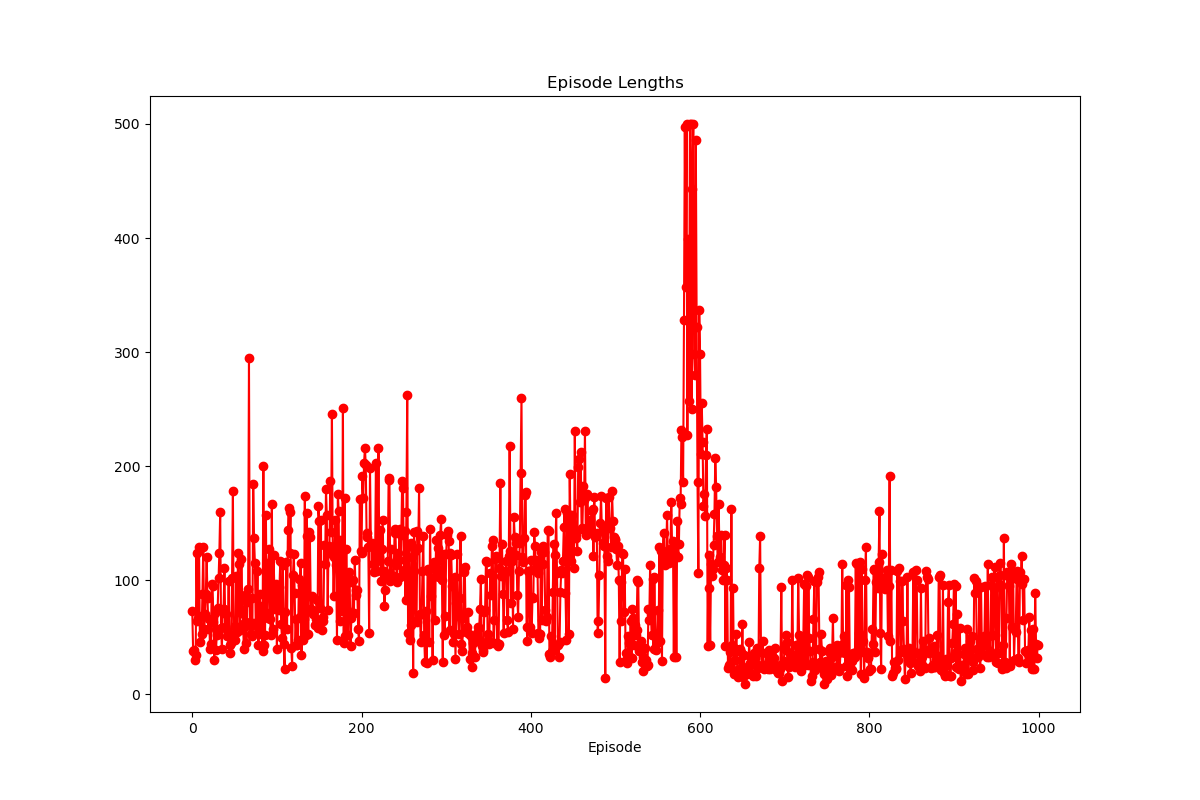
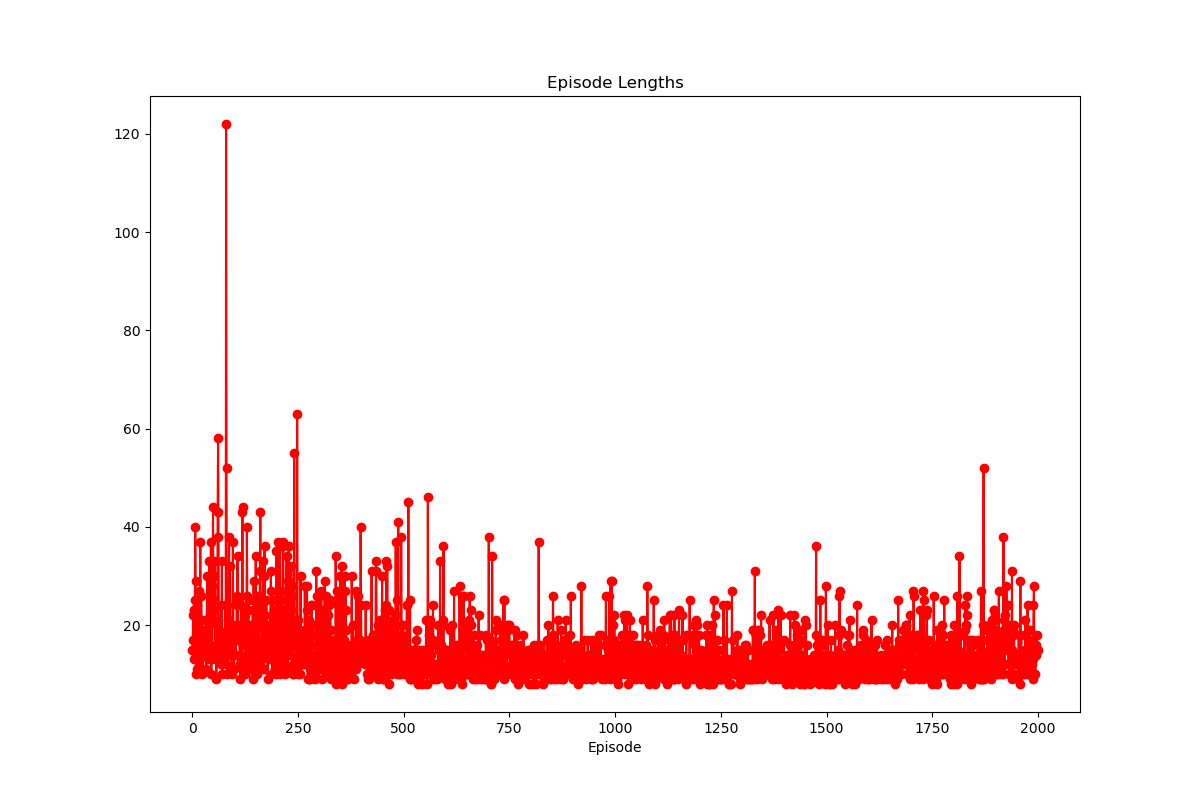
reinforce with baseline added...

diff --git a/Cartpole/actor_critic_batch.py b/Cartpole/actor_critic_batch.py
@@ -1,4 +1,4 @@
-from mh_networks import createCritic, createActor, initialTrain
+from mh_networks import createCritic, createActor
 import tensorflow as tf
 from tensorflow.keras.optimizers import SGD, Adam
 import gymnasium as gym
@@ -12,9 +12,8 @@ class MHActorCritic:
     def __init__(self, model_v_path=None, model_a_path=None, lr=0.0001):
         self.model_v = createCritic((4,)) if model_v_path is None else tf.keras.models.load_model(model_v_path)
         self.model_a = createActor((4,), 2) if model_a_path is None else tf.keras.models.load_model(model_a_path)
-        self.model_a = initialTrain(self.model_a)
-        self.opt_v = SGD(learning_rate=lr)
-        self.opt_a = SGD(learning_rate=lr)
+        self.opt_v = Adam(learning_rate=lr)
+        self.opt_a = Adam(learning_rate=lr)
         self.hist_s = []
         self.hist_a = []
         self.hist_r = []
@@ -27,40 +26,65 @@ class MHActorCritic:
         self.hist_r.append(r)
         self.hist_s_prime.append(s_prime)
         self.hist_done.append(done)
-        self.update()
+        # if len(self.hist_s) >= 32:
+        s_list, a_list, r_list, s_prime_list, done_list = self.gatherExperience(n=31)
+        s_list.append(s)
+        a_list.append(a)
+        r_list.append(r)
+        s_prime_list.append(s_prime)
+        done_list.append(done)
+        self.update(s_list, a_list, r_list, s_prime_list, done_list)
+
+    def clearBuffer(self):
+        self.hist_s = []
+        self.hist_a = []
+        self.hist_r = []
+        self.hist_s_prime = []
+        self.hist_done = []
 
     def s2x(self, s):
         return np.expand_dims(s, 0)
 
-    def update(self):
-        s = self.hist_s[-1]
-        a = self.hist_a[-1]
-        r = self.hist_r[-1]
-        s_prime = self.hist_s_prime[-1]
-        done = self.hist_done[-1]
-        v_s = self.model_v(self.s2x(s))[0, 0]
-        print('\r', end='')
-        print(f'v_s: {v_s.numpy():4.2f}', end='')
-        v_s_prime = self.model_v(self.s2x(s_prime))[0, 0]
-        if done:
-            diff = r - v_s 
-        else:
-            diff = r + v_s_prime - v_s
+    def update(self, s_list, a_list, r_list, s_prime_list, done_list):
+        bs = len(s_list)
+        x = np.concatenate([self.s2x(s) for s in s_list], axis=0)
+        x_prime = np.concatenate([self.s2x(s_prime) for s_prime in s_prime_list], axis=0)
+        v_s = self.model_v(x).numpy()
+        # print('\r', end='')
+        # print(f'v_s: {v_s.numpy():4.2f}', end='')
+        v_s_prime = self.model_v(x_prime).numpy()
+        diff_list = np.array([r - v if done else r + v_prime - v for r, done, v, v_prime in zip(r_list, done_list, v_s, v_s_prime)])
         with tf.GradientTape(persistent=True) as tape:
-            v_s = -diff * self.model_v(self.s2x(s))
-            if a:
-                p = self.model_a(self.s2x(s))
-            else:
-                p = 1 - self.model_a(self.s2x(s))
+            v_s = - diff_list * self.model_v(x) / bs
+            p_list = []
+            for a, s in zip(a_list, s_list):
+                if a:
+                    p = self.model_a(self.s2x(s))
+                else:
+                    p = 1 - self.model_a(self.s2x(s))
+                p_list.append(p)
             
-            log_p = tf.math.log(p)
-            print(f'\ta: {a} r: {r:.2f}, p: {p.numpy()[0,0]:.2f}, log_p: {log_p.numpy()[0,0]:.2f}, diff: {diff:4.2f}', end='')
-            log_p = -diff * log_p
+
+            log_p = tf.math.log(p_list)[..., 0]
+            # print('log_p: ', log_p.shape, end='')
+            # print(f'\ta: {a} r: {r:.2f}, p: {p.numpy()[0,0]:.2f}, log_p: {log_p.numpy()[0,0]:.2f}, diff: {diff:4.2f}', end='')
+            log_p = -diff_list * log_p / bs
+            # print('log_p: ', log_p.shape, end='')
 
         grad_v = tape.gradient(v_s, self.model_v.trainable_variables)
         self.opt_v.apply_gradients(zip(grad_v, self.model_v.trainable_variables))
         grad_a = tape.gradient(log_p, self.model_a.trainable_variables)
         self.opt_a.apply_gradients(zip(grad_a, self.model_a.trainable_variables))
+
+
+    def gatherExperience(self, n=32):
+        indices = np.random.choice(range(len(self.hist_s)), size=(n,))
+        s_list = [self.hist_s[i] for i in indices]
+        a_list = [self.hist_a[i] for i in indices]
+        r_list = [self.hist_r[i] for i in indices]
+        s_prime_list = [self.hist_s_prime[i] for i in indices]
+        done_list = [self.hist_done[i] for i in indices]
+        return s_list, a_list, r_list, s_prime_list, done_list
         
 
     def act(self, observation):
@@ -80,8 +104,8 @@ def generateReward(observation, method='theta'):
 
 model_v_path = 'models/model_v'
 model_a_path = 'models/model_a'
-mha = MHActorCritic(lr=0.0001)
-# mha = MHActorCritic(model_v_path=model_v_path, model_a_path=model_a_path)
+mha = MHActorCritic(lr=0.00001)
+# mha = MHActorCritic(model_v_path=model_v_path, model_a_path=model_a_path, lr=0.00001)
 # env = gym.make('CartPole-v1', render_mode='human')
 env = gym.make('CartPole-v1')
 
@@ -91,7 +115,7 @@ n_episode = 0
 episodes = []
 best_mean = -100
 
-while n_episode < 1000:
+while n_episode < 2000:
     t -=- 1
     old_observation = observation
     action = mha.act(observation)  # agent policy that uses the observation and info

diff --git a/Cartpole/reinforce_with_baseline.py b/Cartpole/reinforce_with_baseline.py
@@ -1,0 +1,141 @@
+#########################################################################################
+##                                                                                     ##
+##                                Mohammad Hossein Amini                               ##
+##                            Title: Reinforce with Baseline                           ##
+##                                   Date: 2023/10/05                                  ##
+##                                                                                     ##
+#########################################################################################
+
+##  Description: 
+
+
+
+
+import gymnasium as gym
+import numpy as np
+import tensorflow as tf
+from tensorflow.keras.models import Model
+from tensorflow.keras.layers import Dense, Input, Dropout
+from tensorflow.keras.optimizers import Adam, SGD
+import matplotlib.pyplot as plt
+
+def generateActorNetwork(input_shape=(4,), actions=2):
+    inputs = Input(shape=input_shape)
+    x = Dense(128, activation='relu')(inputs)
+    outputs = Dense(actions, activation='softmax')(x)
+    model = Model(inputs=inputs, outputs=outputs)
+    return model
+
+def generateCriticNetwork(input_shape=(4,)):
+    inputs = Input(shape=input_shape)
+    x = Dense(128, activation='relu')(inputs)
+    x = Dropout(0.4)(x)
+    x = Dense(64, activation='relu')(x)
+    x = Dropout(0.4)(x)
+    outputs = Dense(1, activation='linear')(x)
+    model = Model(inputs=inputs, outputs=outputs)
+    return model
+
+class MHReinforce:
+    def __init__(self, no_of_actions=2, state_dim=4):
+        self.n_action = no_of_actions
+        self.state_dim = state_dim
+        self.hist_s = []
+        self.hist_a = []
+        self.hist_r = []
+        self.hist_s_prime = []
+        self.hist_done = []
+        self.model_a = generateActorNetwork(input_shape=(state_dim,), actions=no_of_actions)
+        self.opt_a = Adam(0.01)
+        self.model_v = generateCriticNetwork(input_shape=(state_dim,))
+        self.model_v.compile(loss='mse', optimizer=Adam(0.01))
+
+    def updateBuffer(self, s, a, r, s_prime, done):
+        self.hist_s.append(s)
+        self.hist_a.append(a)
+        self.hist_r.append(r)
+        self.hist_s_prime.append(s_prime)
+        self.hist_done.append(done)
+
+    def clearBuffer(self):
+        self.hist_s = []
+        self.hist_a = []
+        self.hist_r = []
+        self.hist_s_prime = []
+        self.hist_done = []
+
+    def updateCritic(self, verbose=0):
+        N = len(self.hist_s)
+        G = []
+        for i in range(N):
+            G.append(sum([r for r in self.hist_r[i:]]))
+        X = np.array([s for s in self.hist_s])
+        G = np.array(G)
+        self.model_v.fit(X, G, epochs=20, verbose=verbose)
+        loss = tf.losses.mean_squared_error(G, self.model_v.predict(X, verbose=0)[:, 0])
+        return loss.numpy()
+
+    def updateActor(self):
+        N = len(self.hist_s)
+        G = []
+        for i in range(N):
+            G.append(sum([r for r in self.hist_r[i:]]))
+        X = np.array([s for s in self.hist_s])
+        G = np.array(G)
+        diff = G - self.model_v.predict(X, verbose=0)[:, 0]
+        log_probs = []
+        losses = []
+        with tf.GradientTape() as tape:
+            for a, x, d in zip(self.hist_a, self.hist_s, diff):
+                log_probs.append(tf.math.log(self.model_a(x[np.newaxis, ...])[0, a]))
+                losses.append(-d * log_probs[-1])
+            loss = tf.reduce_mean(losses)
+        grad_a = tape.gradient(loss, self.model_a.trainable_variables)
+        self.opt_a.apply_gradients(zip(grad_a, self.model_a.trainable_variables))
+        return loss.numpy()
+
+    def updateEpisode(self):
+        loss_v = self.updateCritic(verbose=0)
+        loss_a = self.updateActor()
+        print(f'Loss_v: {loss_v:4.2f}, Loss_a: {loss_a:4.2f}')
+        self.clearBuffer()
+
+    def act(self, s):
+        p = self.model_a(np.expand_dims(s, 0)).numpy()[0]
+        a = np.random.choice(len(p), p=p)
+        print('\r', end='')
+        print(f'p = {p[a]:4.2f}', end='')
+        return a
+
+
+render_mode = None
+# render_mode = 'human'
+env = gym.make('CartPole-v1', render_mode=render_mode)
+# env = gym.make('LunarLander-v2', render_mode=render_mode)
+n_actions = env.action_space.n
+n_states = env.observation_space.shape[0]
+mha = MHReinforce(no_of_actions=n_actions, state_dim=n_states)
+max_episode_steps = 500
+
+observation, info = env.reset()
+
+t = 0
+g = 0
+n_episode = 0
+while True:
+    old_observation = observation
+    action = mha.act(observation)
+    observation, reward, terminated, truncated, info = env.step(action)
+    mha.updateBuffer(old_observation, action, reward, observation, done:= (terminated or truncated))
+    t -=- 1
+    g += reward
+    if done:
+        n_episode -=- 1
+        mha.updateEpisode()
+        print(f'Episode {n_episode} finished after {t} timesteps with total reward {g}')
+        observation, info = env.reset()
+        t = 0
+        g = 0
+
+
+env.close()

diff --git a/Cartpole/mh_networks.py b/Cartpole/mh_networks.py
@@ -22,3 +22,26 @@ def createActor(input_shape=(4,), actions=2):
         outputs = Dense(actions, activation='softmax')(x)
     model = Model(inputs=inputs, outputs=outputs)
     return model
+
+def initialTrain(model):
+    X, y = generateRandomData(10000)
+    model.compile(loss='mse', optimizer='adam')
+    model.fit(X, y, epochs=10, verbose=1)
+    return model
+
+def generateRandomData(n=1000, p=0.75):
+    X, y = [], []
+    for i in range(n):
+        x = np.random.rand() * 9.6 - 4.8
+        x_dot = np.random.rand() * 5 - 2.5
+        theta = np.random.rand() * 0.4 - 0.2
+        theta_dot = np.random.rand() * 5 - 2.5
+        X.append([x, x_dot, theta, theta_dot])
+        target = p if theta > 0 else 1 - p
+        y.append(target)
+    return np.array(X), np.array(y)
+    
+if __name__ == '__main__':
+    model = createActor()
+    model = initialTrain(model)
+    
